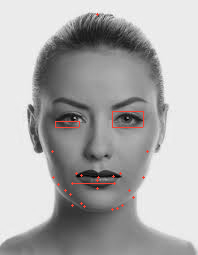
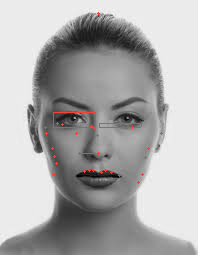
student head detection implemented

diff --git a/source/ExternalDLL/ExternalDLL/Histogram.cpp b/source/ExternalDLL/ExternalDLL/Histogram.cpp
@@ -14,7 +14,7 @@ Histogram::Histogram(const IntensityImage & intensityImage)
 }
 
 
-Histogram::Histogram(const IntensityImage & intensityImage, int relativeLeftX, int relativeRightX, int relativeUpperY, int relativeLowerY)
+Histogram::Histogram(const IntensityImage & intensityImage, int relativeLeftX, int relativeRightX, int relativeUpperY, int relativeLowerY, Axis axis)
 {
 	int actualHeight = intensityImage.getHeight();
 	int actualWidth = intensityImage.getWidth();
@@ -22,15 +22,25 @@ Histogram::Histogram(const IntensityImage & intensityImage, int relativeLeftX, i
 	int calculatedWidth = (actualWidth  - relativeRightX - relativeLeftX);
 	if (calculatedHeight > 0 && calculatedWidth > 0) {
 		int totalPixels = calculatedHeight * calculatedWidth;
-		histogram.resize(calculatedWidth);
-		for (int u = 0; u <= calculatedHeight; ++u) {
-			for (int i = 0; i < calculatedWidth; ++i) {
-				histogram[i] += intensityImage.getPixel(i + relativeLeftX + (u * actualWidth));
+		if (axis == Axis::x) {
+			histogram.resize(calculatedWidth);
+			for (int u = 0; u <= calculatedHeight; ++u) {
+				for (int i = 0; i < calculatedWidth; ++i) {
+					histogram[i] += (int)intensityImage.getPixel(i + relativeLeftX + ((relativeUpperY + u) * actualWidth)) < 127 ? 1 : 0;
+				}
+			}
+		}
+		else if (axis == Axis::y) {
+			histogram.resize(calculatedHeight);
+			for (int i = 0; i <= calculatedHeight; ++i) {
+				for (int u = 0; u < calculatedWidth; ++u) {
+					histogram[i] += (int)intensityImage.getPixel(u + (i * actualWidth)) < 127 ? 1 : 0;
+				}
 			}
 		}
 	}
 	else {
-		std::cout << "Given image dimentions are smaller than 1." << std::endl;
+		std::cout << "Given image dimensions are smaller than 1." << std::endl;
 	}
 }
 
@@ -40,4 +50,14 @@ Histogram::~Histogram()
 
 std::vector<int> Histogram::getHistogramData() {
 	return histogram;
+}
+
+int Histogram::getValue(int index)
+{
+	return histogram[index];
+}
+
+int Histogram::getSize()
+{
+		return histogram.size();
 }

diff --git a/source/ExternalDLL/ExternalDLL/StudentLocalization.cpp b/source/ExternalDLL/ExternalDLL/StudentLocalization.cpp
@@ -1,6 +1,73 @@
 #include "StudentLocalization.h"
 
+#include <fstream>
+
 bool StudentLocalization::stepFindHead(const IntensityImage &image, FeatureMap &features) const {
+	Histogram AxisY(image, 50, 50, 0, 0, Axis::y);
+	
+	//determine top of the head
+
+	int topHead = -1;
+
+	for (int i = 0; i < AxisY.getSize(); ++i) {
+		if (AxisY.getValue(i) > 2) {
+			topHead = i;
+			break;
+		}
+	}
+	if (topHead == -1) {
+		return false;
+	}
+	
+	//determine sides
+
+	int lastLeftX = -1;
+	int lastRightX = -1;
+	for (int y = topHead; y < image.getHeight(); y += 20) {
+		Histogram layerX(image, 0, 0, y, (image.getHeight() - y - 20), Axis::x);
+		
+		//determine leftside of the head
+		int leftX = -1;
+		for (int i = 0; i < layerX.getSize(); ++i) {
+			if (layerX.getValue(i) > 2) {
+				leftX = i;
+				break;
+			}
+		}
+
+		//determine rightside of the head
+		int rightX = -1;
+		for (int i = layerX.getSize() - 1; i >= 0 ; --i) {
+			if (layerX.getValue(i) > 2) {
+				rightX = i;
+				break;
+			}
+		}
+		
+		// if not both sides are found skip the rest of the loop
+		if (leftX == -1 || rightX == -1) {
+			continue;
+		}
+
+		int currentHeadWidth = rightX - leftX;
+		int lastHeadWidth = lastRightX - lastLeftX;
+
+		if (currentHeadWidth < lastHeadWidth) {
+			Feature * headUpperBound = new Feature(Feature::FEATURE_HEAD_TOP, Point2D<double>(lastRightX - (currentHeadWidth / 2), topHead));
+			Feature * headLeftBound = new Feature(Feature::FEATURE_HEAD_LEFT_SIDE, Point2D<double>(lastLeftX, y));
+			Feature * headRightBound = new Feature(Feature::FEATURE_HEAD_RIGHT_SIDE, Point2D<double>(lastRightX, y));
+
+			features.putFeature(*headUpperBound);
+			features.putFeature(*headLeftBound);
+			features.putFeature(*headRightBound);
+					
+			return true;
+		}
+
+		lastLeftX = leftX;
+		lastRightX = rightX;
+	}
+	
 	return false;
 }
 

diff --git a/source/ExternalDLL/ExternalDLL/Histogram.h b/source/ExternalDLL/ExternalDLL/Histogram.h
@@ -1,14 +1,21 @@
 #pragma once
 #include <vector>
 #include "IntensityImage.h"
+
+enum class Axis {
+	x, y
+};
+
 class Histogram
 {
 public:
 	Histogram(const IntensityImage & intensityImage);
-	Histogram(const IntensityImage & intensityImage, int relativeLeftX, int relativeRightX, int relativeUpperY, int relativeLowerY);
+	Histogram(const IntensityImage & intensityImage, int relativeLeftX, int relativeRightX, int relativeUpperY, int relativeLowerY, Axis axis = Axis::x);
 	~Histogram();
 
 	std::vector<int> getHistogramData();
+	int getValue(int index);
+	int getSize();
 
 private:
 	std::vector<int> histogram;

diff --git a/source/ExternalDLL/ExternalDLL/Main.cpp b/source/ExternalDLL/ExternalDLL/Main.cpp
@@ -90,7 +90,7 @@ bool executeSteps(DLLExecution * executor) {
 		return false;
 	}
 
-	if (!executor->executeLocalizationStep1(false)) {
+	if (!executor->executeLocalizationStep1(true)) {
 		std::cout << "Localization step 1 failed!" << std::endl;
 		return false;
 	}
@@ -219,5 +219,5 @@ void drawFeatureDebugImage(IntensityImage &image, FeatureMap &features) {
 	ImageIO::saveRGBImage(*debug, ImageIO::getDebugFileName("feature-points-debug.png"));
 	delete debug;
 
-	Test::HistogramTest();
+	//Test::HistogramTest();
 }

diff --git a/source/ExternalDLL/ExternalDLL/StudentLocalization.h b/source/ExternalDLL/ExternalDLL/StudentLocalization.h
@@ -6,6 +6,8 @@
 
 #pragma once
 #include "Localization.h"
+#include "Histogram.h"
+
 class StudentLocalization :
 	public Localization {
 public:
